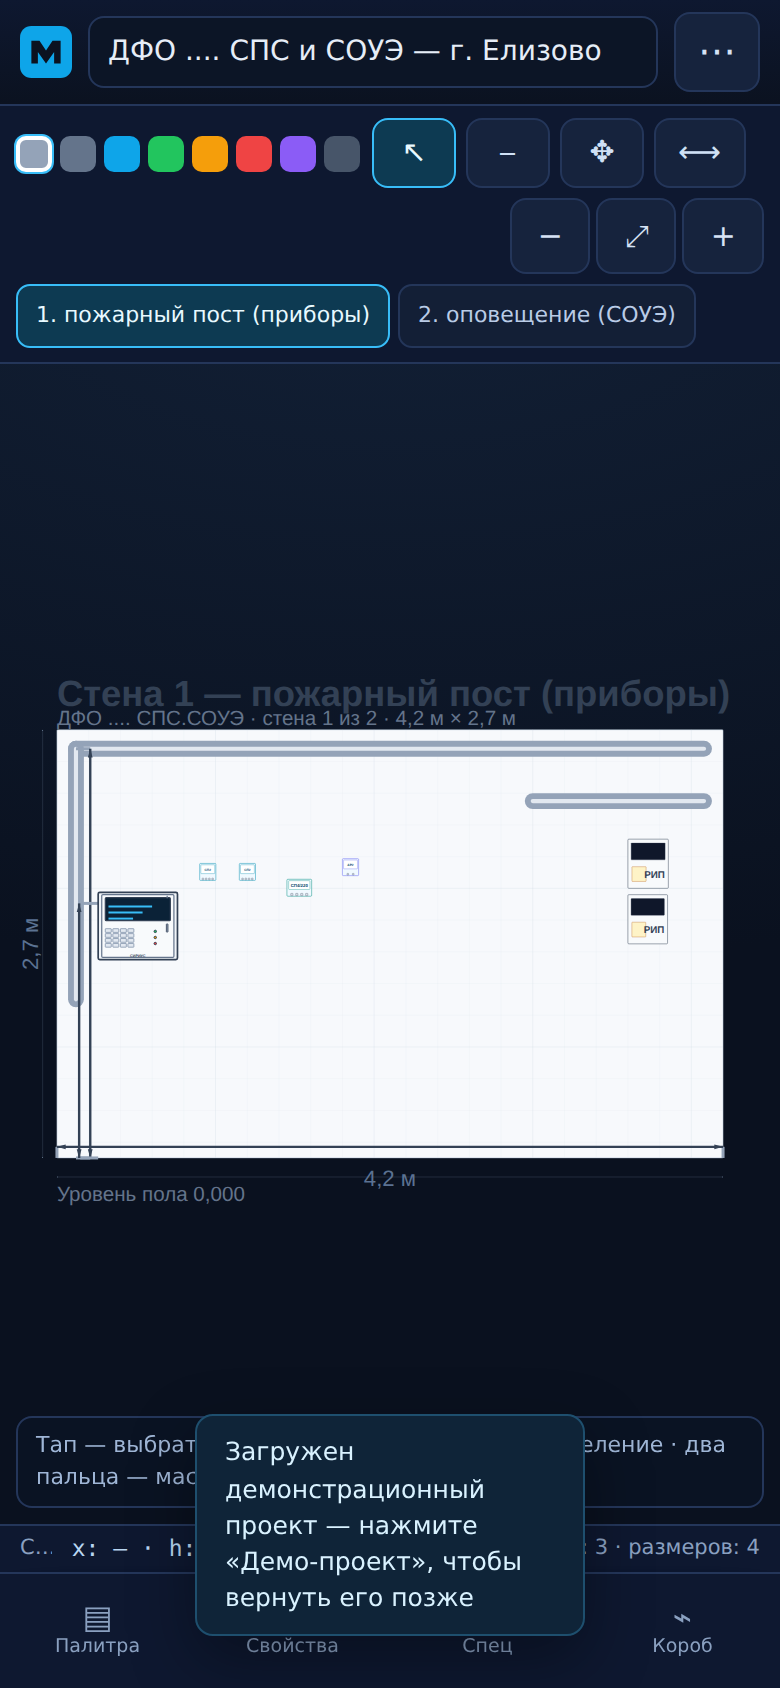
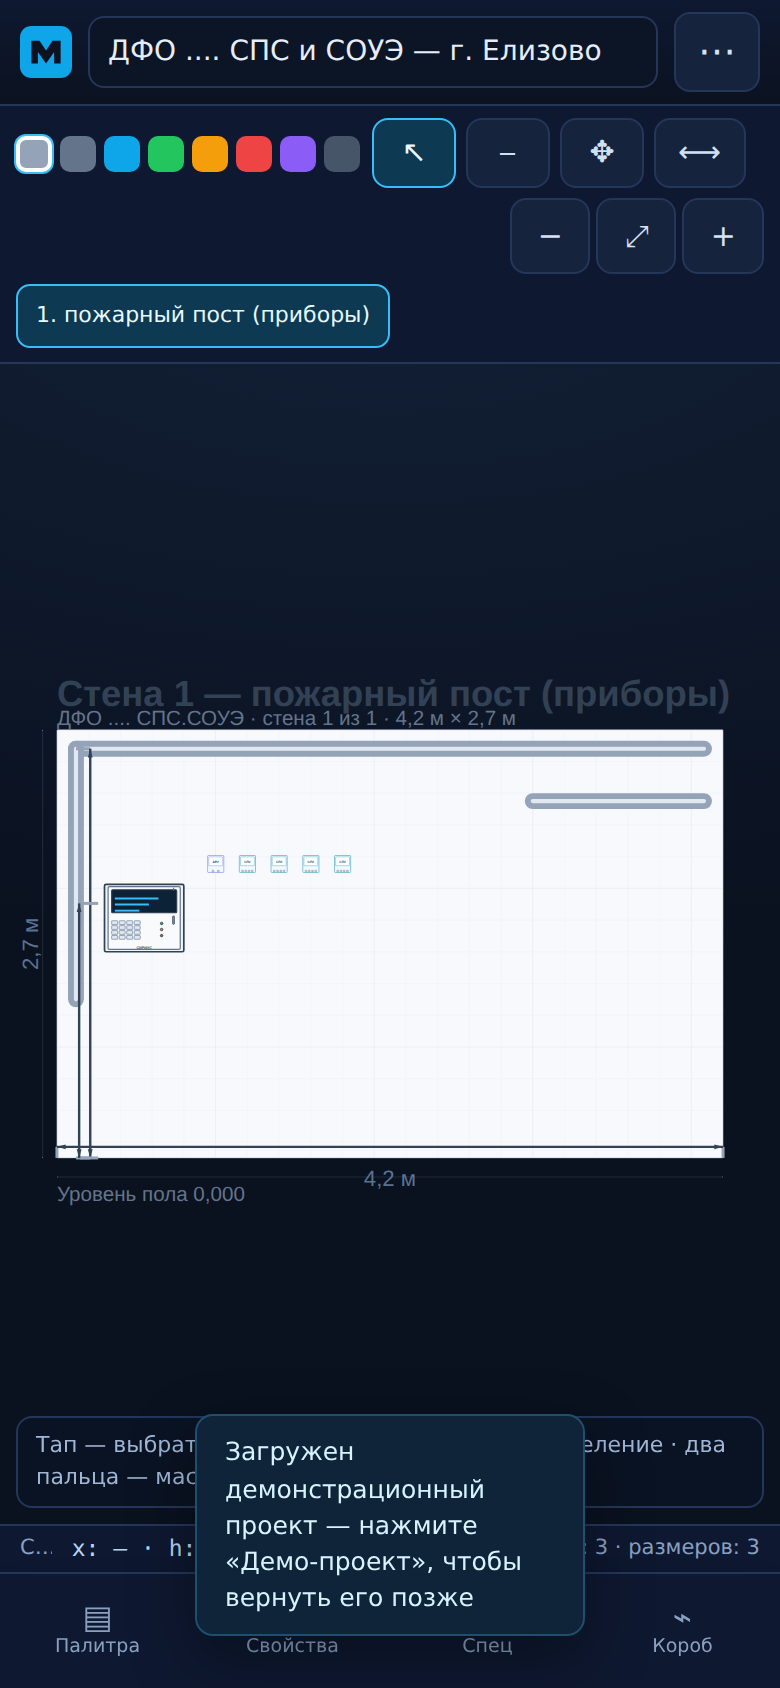
Демо: одна стена, Сириус + АР2 + 4×С2000-СП2; АР2 возвращён в работу
- АР2 снова доступен в палитре и спецификации (позиция 6)
- демо-проект: одна стена 4,2×2,7 м; приборы: ППКУП «Сириус», С2000-АР2 и четыре
  С2000-СП2 (позиции 1.1–1.6); три короба DKC 100×40; три размерные линии
- вторая стена и её оборудование (КДЛ, коммутатор, розетка) удалены из демо
- тесты: smoke 53/53, QA 168/168 (переписаны проверки стен/нумерации под одну стену),
  mobile 108/108; документация и скриншоты обновлены

diff --git a/js/demo.js b/js/demo.js
@@ -31,25 +31,17 @@ function device(modelId, wallId, x, y, tag, extra = {}) {
 
 export function buildDemoProject() {
   const wallA = { id: uid('wall'), name: 'Стена 1 — пожарный пост (приборы)', width: 4200, height: 2700 };
-  const wallB = { id: uid('wall'), name: 'Стена 2 — оповещение (СОУЭ)', width: 6400, height: 2700 };
 
   const devices = [];
 
-  /* ---------- стена 1: приборы и питание ---------- */
-  const sirius = device('sirius', wallA.id, 260, 1250, '1.1', { address: 'ППКУП «Сириус»' });
-  const sp2_1 = device('sp2', wallA.id, 900, 1750, '1.2', { address: 'СП2 №1' });
-  const sp2_2 = device('sp2', wallA.id, 1150, 1750, '1.3', { address: 'СП2 №2' });
-  const sp4 = device('sp4_220', wallA.id, 1450, 1650, '1.4', { address: 'СП4/220 — клапаны' });
-  const ar2 = device('ar2', wallA.id, 1800, 1780, '1.5', { address: 'АР2 исп.02' });
-  const rip12 = device('rip12', wallA.id, 3600, 1700, '1.6', { address: 'РИП-12 исп.50' });
-  const bp12 = device('bp12', wallA.id, 3600, 1350, '1.7', { address: 'БП 12 В / 5 А' });
-  devices.push(sirius, sp2_1, sp2_2, sp4, ar2, rip12, bp12);
-
-  /* ---------- стена 2: контроллер и прочее оборудование ---------- */
-  const kdl = device('kdl', wallB.id, 600, 1800, '2.1', { address: 'С2000-КДЛ' });
-  const sw = device('switch', wallB.id, 1000, 1800, '2.2', { address: 'коммутатор' });
-  const socket = device('socket', wallB.id, 1500, 2000, '2.3', { address: 'розетка 220 В' });
-  devices.push(kdl, sw, socket);
+  /* ---------- стена: приборы по заданию ---------- */
+  const sirius = device('sirius', wallA.id, 300, 1300, '1.1', { address: 'ППКУП «Сириус»' });
+  const ar2 = device('ar2', wallA.id, 950, 1800, '1.2', { address: 'С2000-АР2 исп.02' });
+  const sp2_1 = device('sp2', wallA.id, 1150, 1800, '1.3', { address: 'С2000-СП2 №1' });
+  const sp2_2 = device('sp2', wallA.id, 1350, 1800, '1.4', { address: 'С2000-СП2 №2' });
+  const sp2_3 = device('sp2', wallA.id, 1550, 1800, '1.5', { address: 'С2000-СП2 №3' });
+  const sp2_4 = device('sp2', wallA.id, 1750, 1800, '1.6', { address: 'С2000-СП2 №4' });
+  devices.push(sirius, ar2, sp2_1, sp2_2, sp2_3, sp2_4);
 
   /* ---------- кабельные трассы: короба DKC 100×40 (ширина 100 мм) ---------- */
   const channels = [
@@ -80,24 +72,6 @@ export function buildDemoProject() {
       cableModelId: 'КПСнг(А)-FRHF 1x2x0,5',
       color: '#0ea5e9',
     },
-    {
-      id: uid('ch'),
-      wallId: wallB.id,
-      kind: 'лоток',
-      width: 100,
-      points: [[160, 2600], [6240, 2600]],
-      cableModelId: 'КПСнг(А)-FRHF 1x2x0,5',
-      color: '#94a3b8',
-    },
-    {
-      id: uid('ch'),
-      wallId: wallB.id,
-      kind: 'кабель-канал',
-      width: 100,
-      points: [[6240, 2600], [6240, 1200]],
-      cableModelId: 'КПСнг(А)-FRHF 1x2x0,5',
-      color: '#22c55e',
-    },
   ];
 
   /* ---------- размерные линии ---------- */
@@ -108,8 +82,6 @@ export function buildDemoProject() {
     { id: uid('dim'), wallId: wallA.id, a: [120, 0], b: [120, 2580], text: '', offset: 90 },
     // высота установки прибора «Сириус» (низ 1250, верх 1605)
     { id: uid('dim'), wallId: wallA.id, a: [260, 1605], b: [260, 0], text: 'высота установки', offset: 120 },
-    // ширина стены 2
-    { id: uid('dim'), wallId: wallB.id, a: [0, 0], b: [6400, 0], text: '', offset: 70 },
   ];
 
   const project = {
@@ -121,7 +93,7 @@ export function buildDemoProject() {
       contractor: 'ООО «РитейлСтройСервис»',
       doc: 'ДФО .... СПС.СОУЭ',
     },
-    walls: [wallA, wallB],
+    walls: [wallA],
     devices,
     channels,
     dimensions,

diff --git a/README.md b/README.md
@@ -70,6 +70,7 @@
 - **Спецификация**: сопоставление «по спецификации / фактически размещено / расхождение»,
   кабельная продукция — сопоставление расчётных длин с проектом, экспорт CSV и Markdown.
 - **Длина короба**: по каждой трассе и итог по проекту (сколько короба закупать), экспорт CSV.
+- Демо-проект: одна стена, **Сириус + АР2 + 4×С2000-СП2**, три короба по 100 мм и три размера.
 - Печать листа и экспорт SVG (векторный чертёж стены со всеми устройствами и трассами).
 
 **Проект**
@@ -100,7 +101,8 @@ npm run dev        # то же самое
 ```
 
 Откройте <http://localhost:8080>. При первом запуске загружается демонстрационный проект
-по спецификации — две стены, приборы, короба DKC и размерные линии.
+по заданию — одна стена, приборы (ППКУП «Сириус», С2000-АР2 и 4×С2000-СП2),
+короба DKC 100×40 и размерные линии.
 
 ### Публикация на GitHub Pages
 
